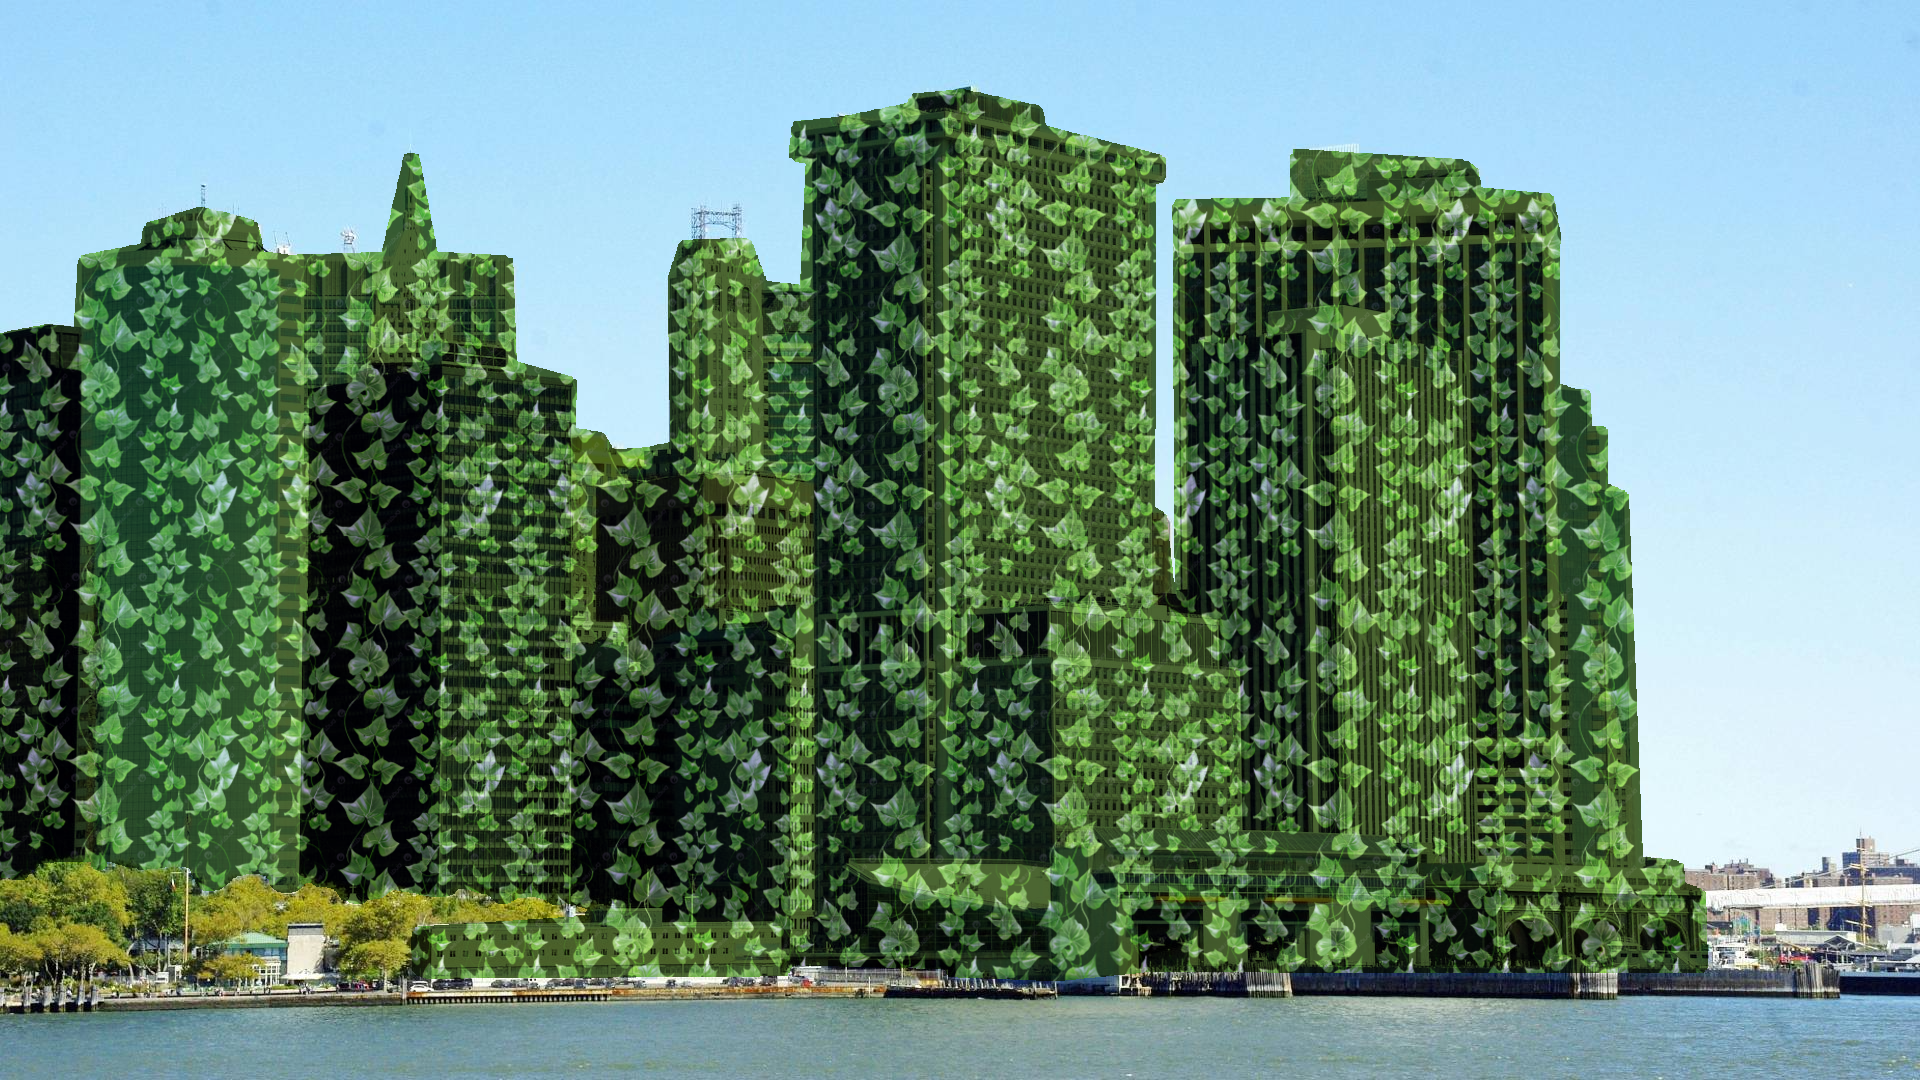
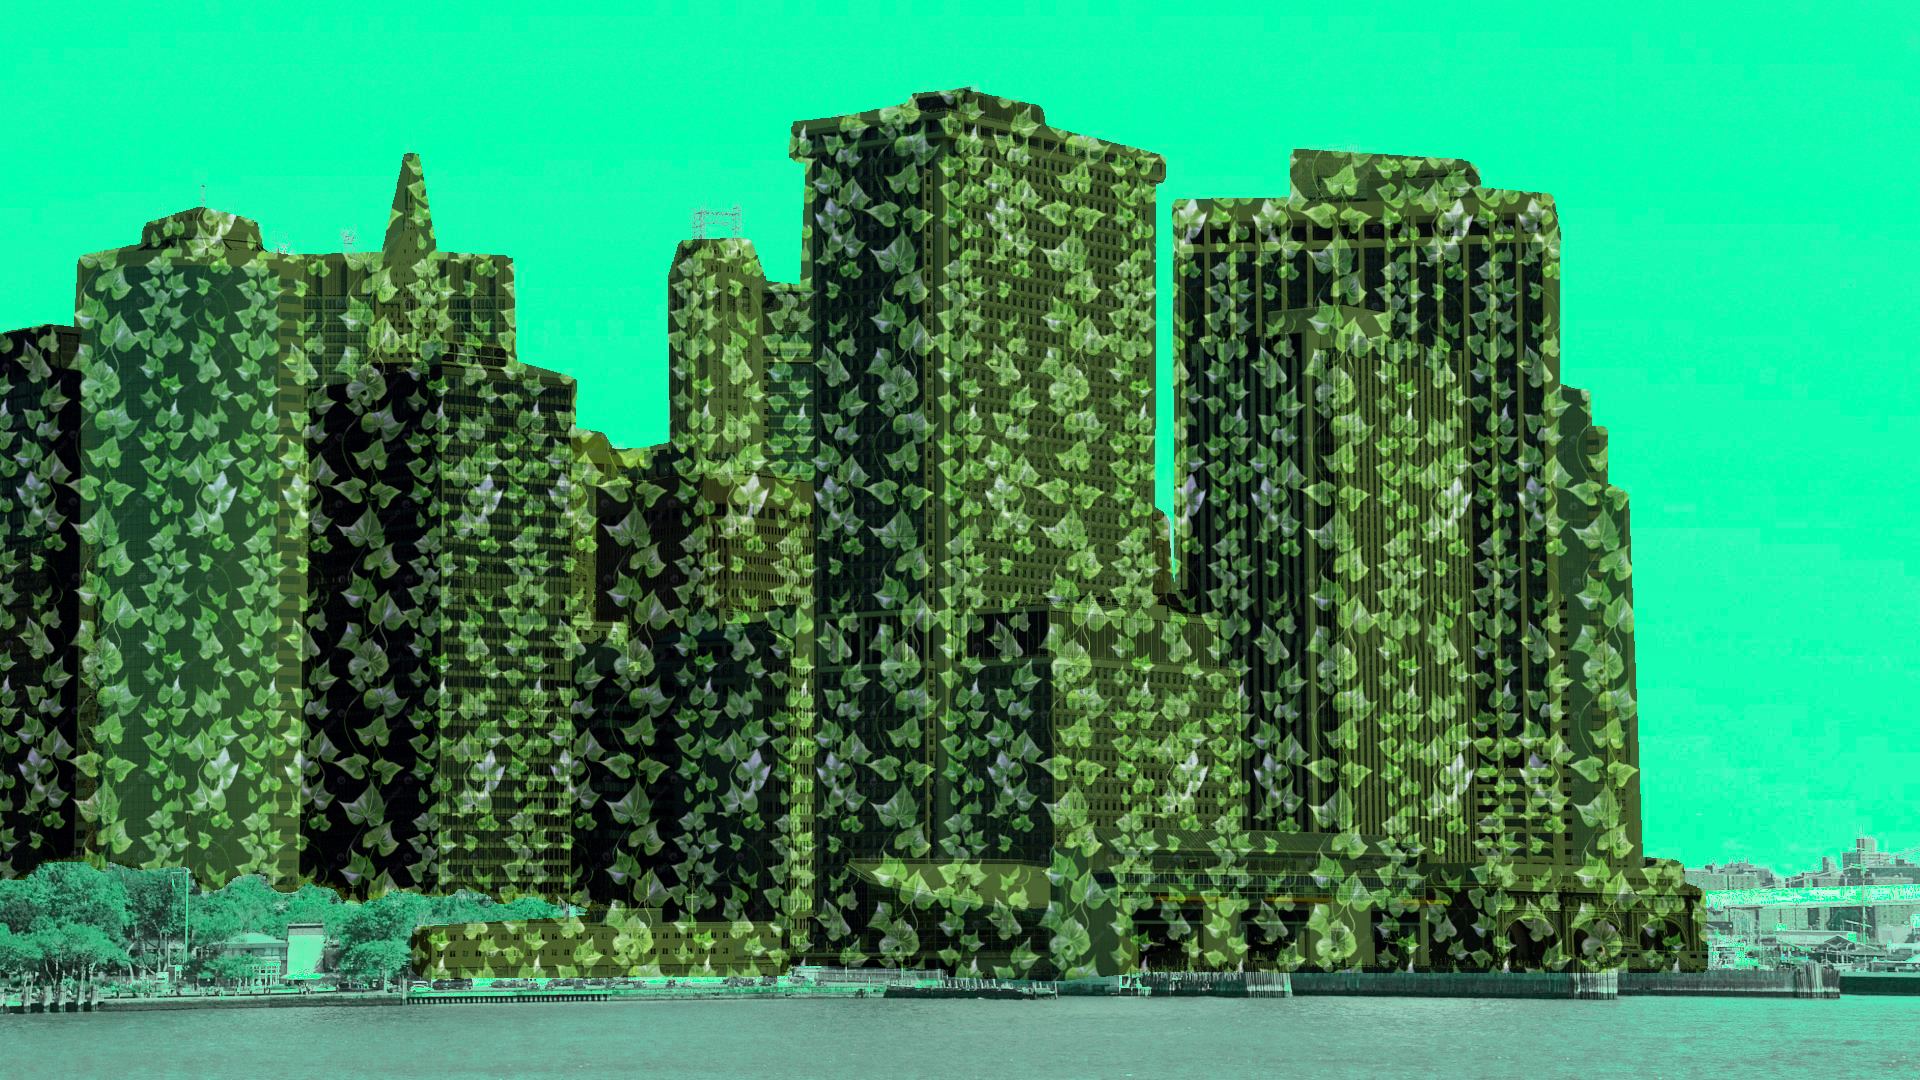
background hue

diff --git a/sketch.js b/sketch.js
@@ -1,10 +1,11 @@
 let sourceImg=null;
 let maskImg=null;
+let curLayer = 0;
 
 // change these three lines as appropiate
-let sourceFile = "input_2.jpg";
-let maskFile   = "mask_2.png";
-let outputFile = "output_2.png";
+let sourceFile = "input_1.jpg";
+let maskFile   = "mask_1.png";
+let outputFile = "output_1.png";
 
 function preload() {
   sourceImg = loadImage(sourceFile);
@@ -22,12 +23,14 @@ function setup () {
   sourceImg.loadPixels();
   maskImg.loadPixels();
   textImg.loadPixels();
+  colorMode(HSB);
 }
 
 let X_STOP = 1920;
 let Y_STOP = 1080;
 
 let renderCounter=0;
+
 function draw () {
   let num_lines_to_draw = 40;
   // get one scanline
@@ -40,8 +43,18 @@ function draw () {
       let mask = maskImg.get(i, j);
       let tex = textImg.get(i, j);
 
+       colorMode(HSB, 360, 100, 100);
+      // draw a "dimmed" version in gray
+      let h = hue(col);
+      let s = saturation(col);
+      let b = brightness(col);
+
       if(mask[0] < 128) {
-        set(i, j, pix);
+        let new_sat = map(s, 0, 100, 20, 100);
+        let new_brt = map(b, 0, 100, 10, 100);
+        let new_hue = map(h, 0, 360, 150, 170);
+        let new_col = color(new_hue, new_sat, new_brt);
+        set(i, j, new_col);
       }
       else {
         let new_col = [0, 0, 0, 255];
@@ -66,7 +79,7 @@ function draw () {
     console.log("Done!")
     noLoop();
     // uncomment this to save the result
-  //saveArtworkImage(outputFile);
+//saveArtworkImage(outputFile);
   }
 }
 

diff --git a/README.md b/README.md
@@ -5,3 +5,5 @@
 My AI camera is inspired by a small bit of AI prompting showcased by Byron [insert last name] in his lecture "lecture name" for DSDN221 at Te Herenga Waka - Victoria University of Wellington. This involved taking a photo of the atrium at Te Aro Campus and prompting the AI to turn it into an overgrown, green space. I decided I wanted to apply this concept to this assignment by building a filter that resembles growing vines and greenery to be pasted over a recognisable aspect of an urban environment. Initially I thought of using pictures roads in rural places but felt this was an unoriginal and overdone idea. Instead I turned to photos of city skylines and skyscrapers. I was worried the AI would find these difficult to identify as there can be so much variation in buildings but it did surprisingly well and I only ended up running two sets of images through training before I was completely satisfied with the results.
 
 I rendered my initial images with Pheobe Zeller's 3 layer halo code, and some basic pointilism out of interest in how they would impact my images. I was most interested in using a texture to paste vines onto the buildings, so I built this up using the base texture code provided. I experimented with the texture quite a lot, including changing the size/amount of the leaves and the background colour (white vs black), alongside changing the RGB colour value maps to best create the effect of dense greenery.
+
+For the background, I played around with heightening the saturation levels to make the colours, particularly the sky, really stand out and give the effect that the earth is thriving. This did not work particularly well for my third initial image as the sky was too overcast to register as blue-toned and so ended up coming out red. I attempted to solve this by adding a blue hue but this of course impacted other aspects of the image such as trees.
